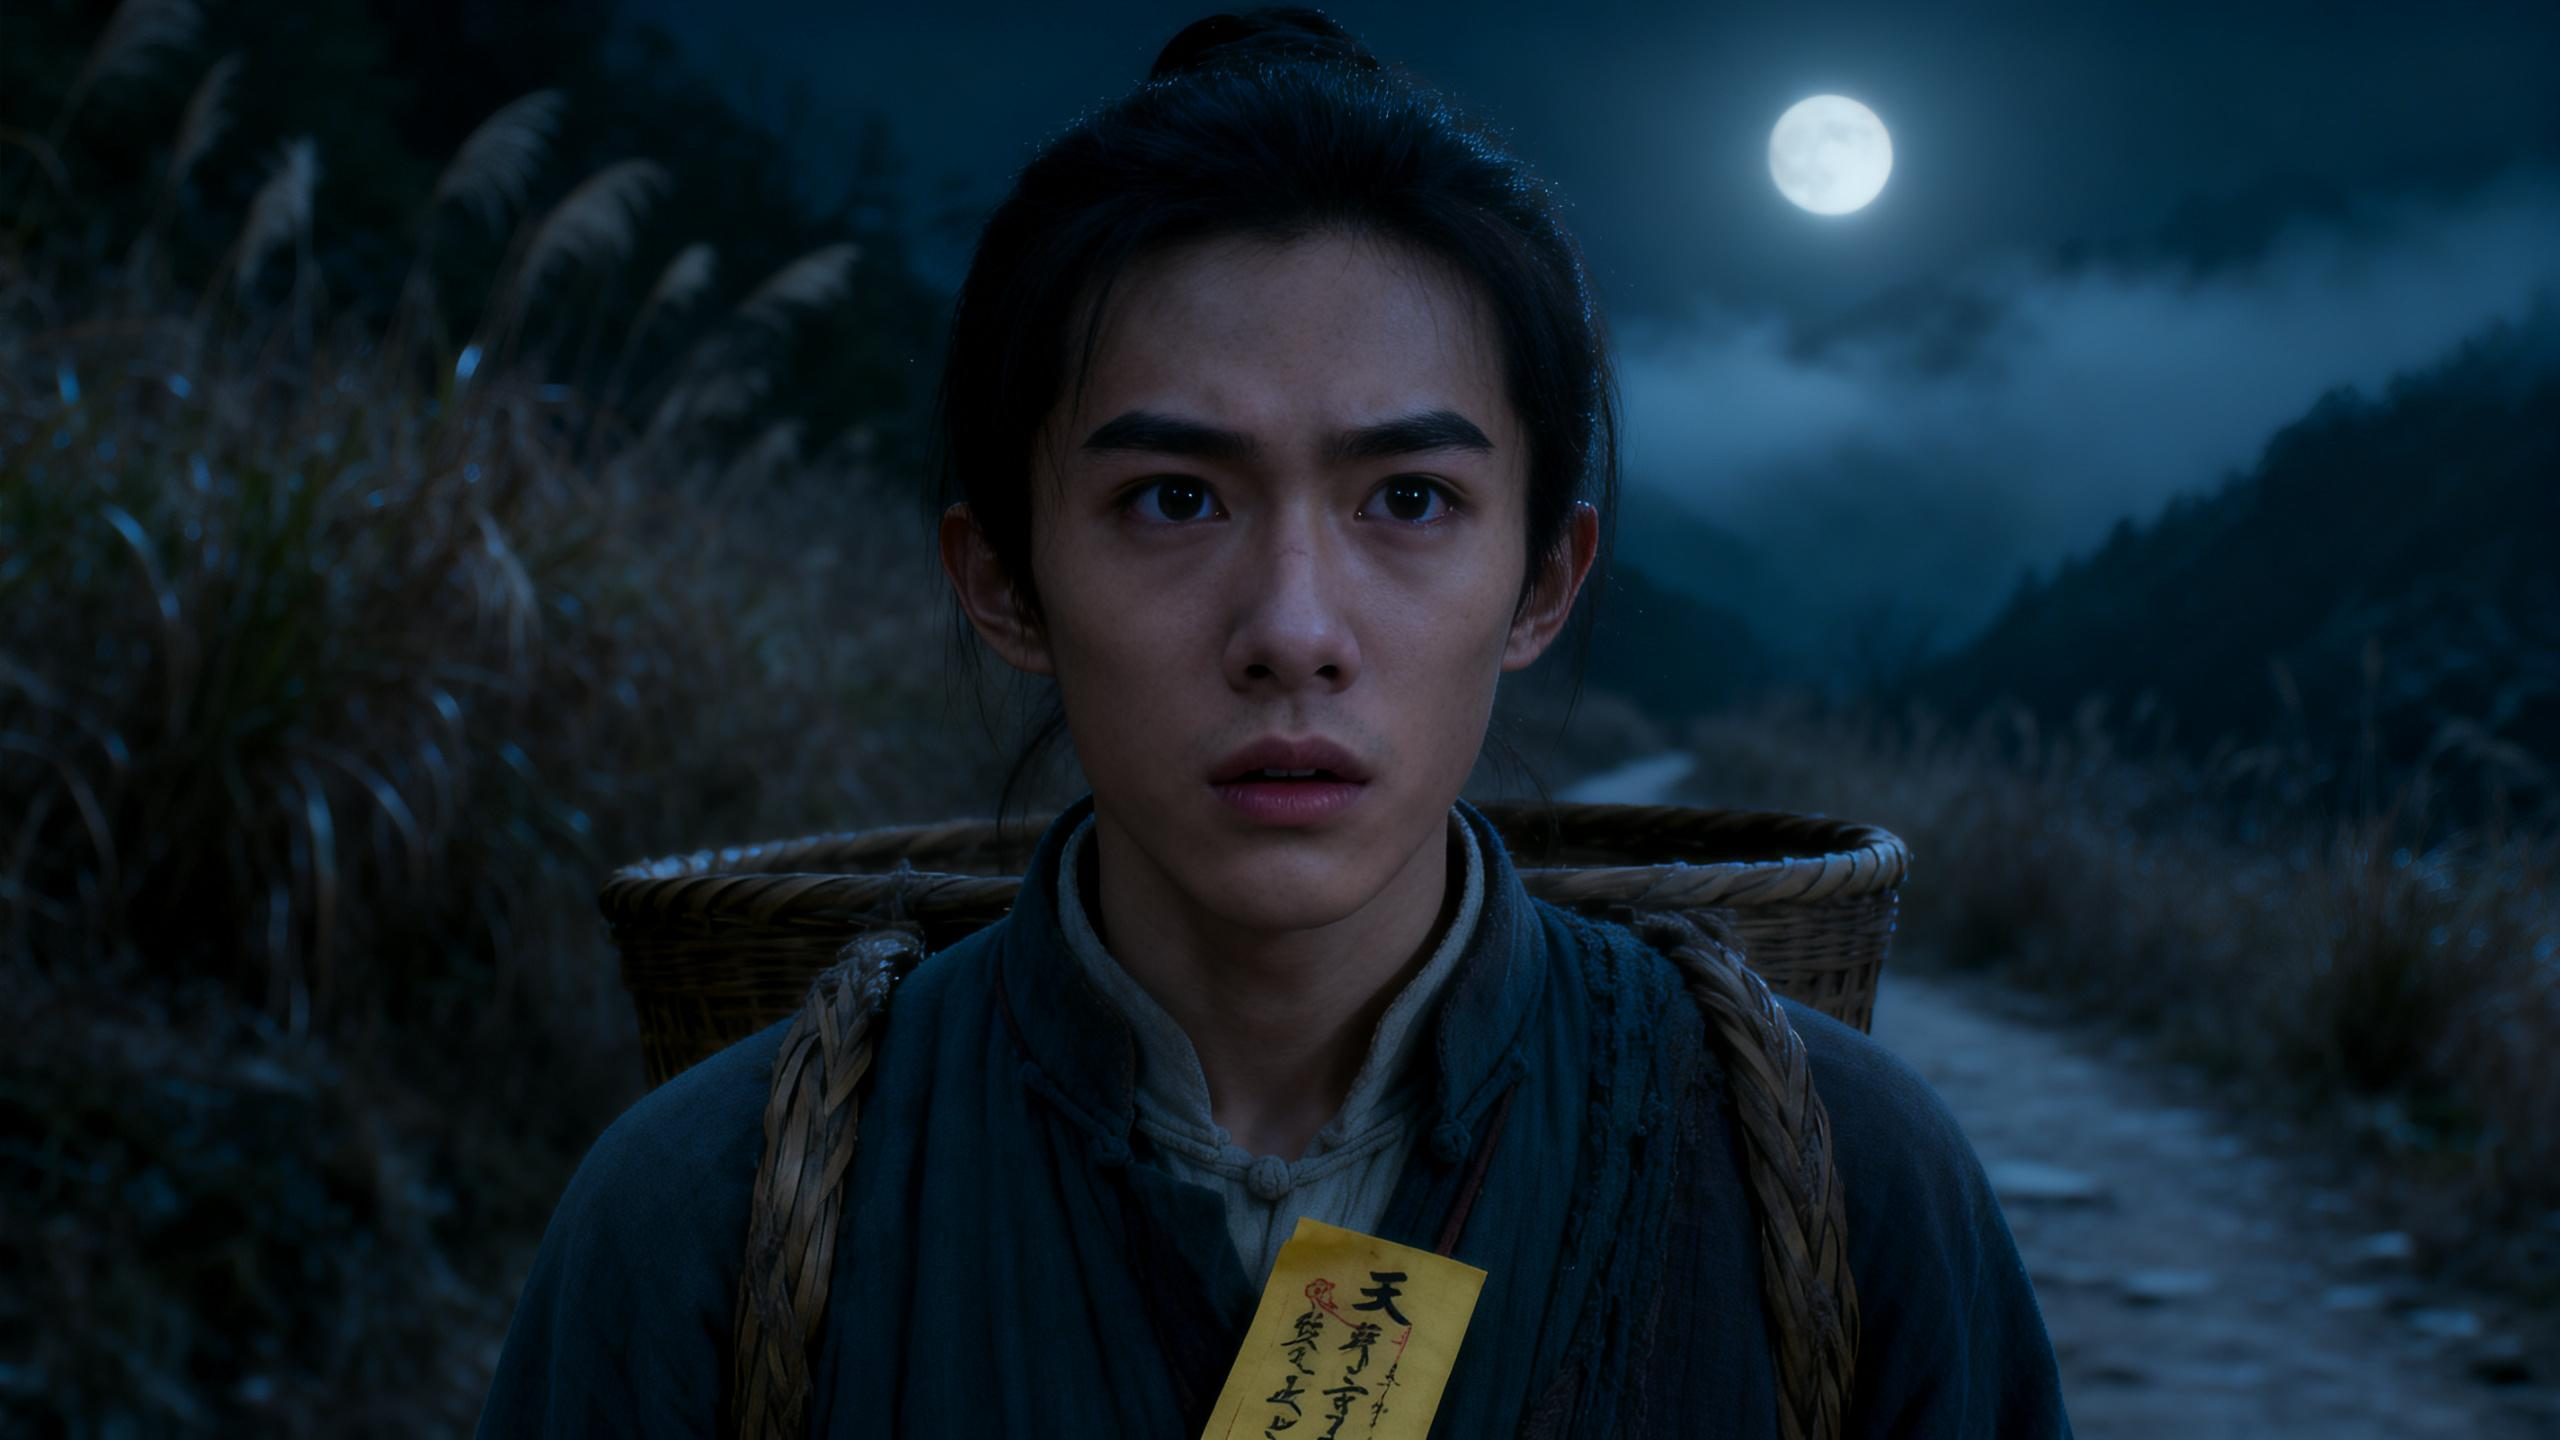
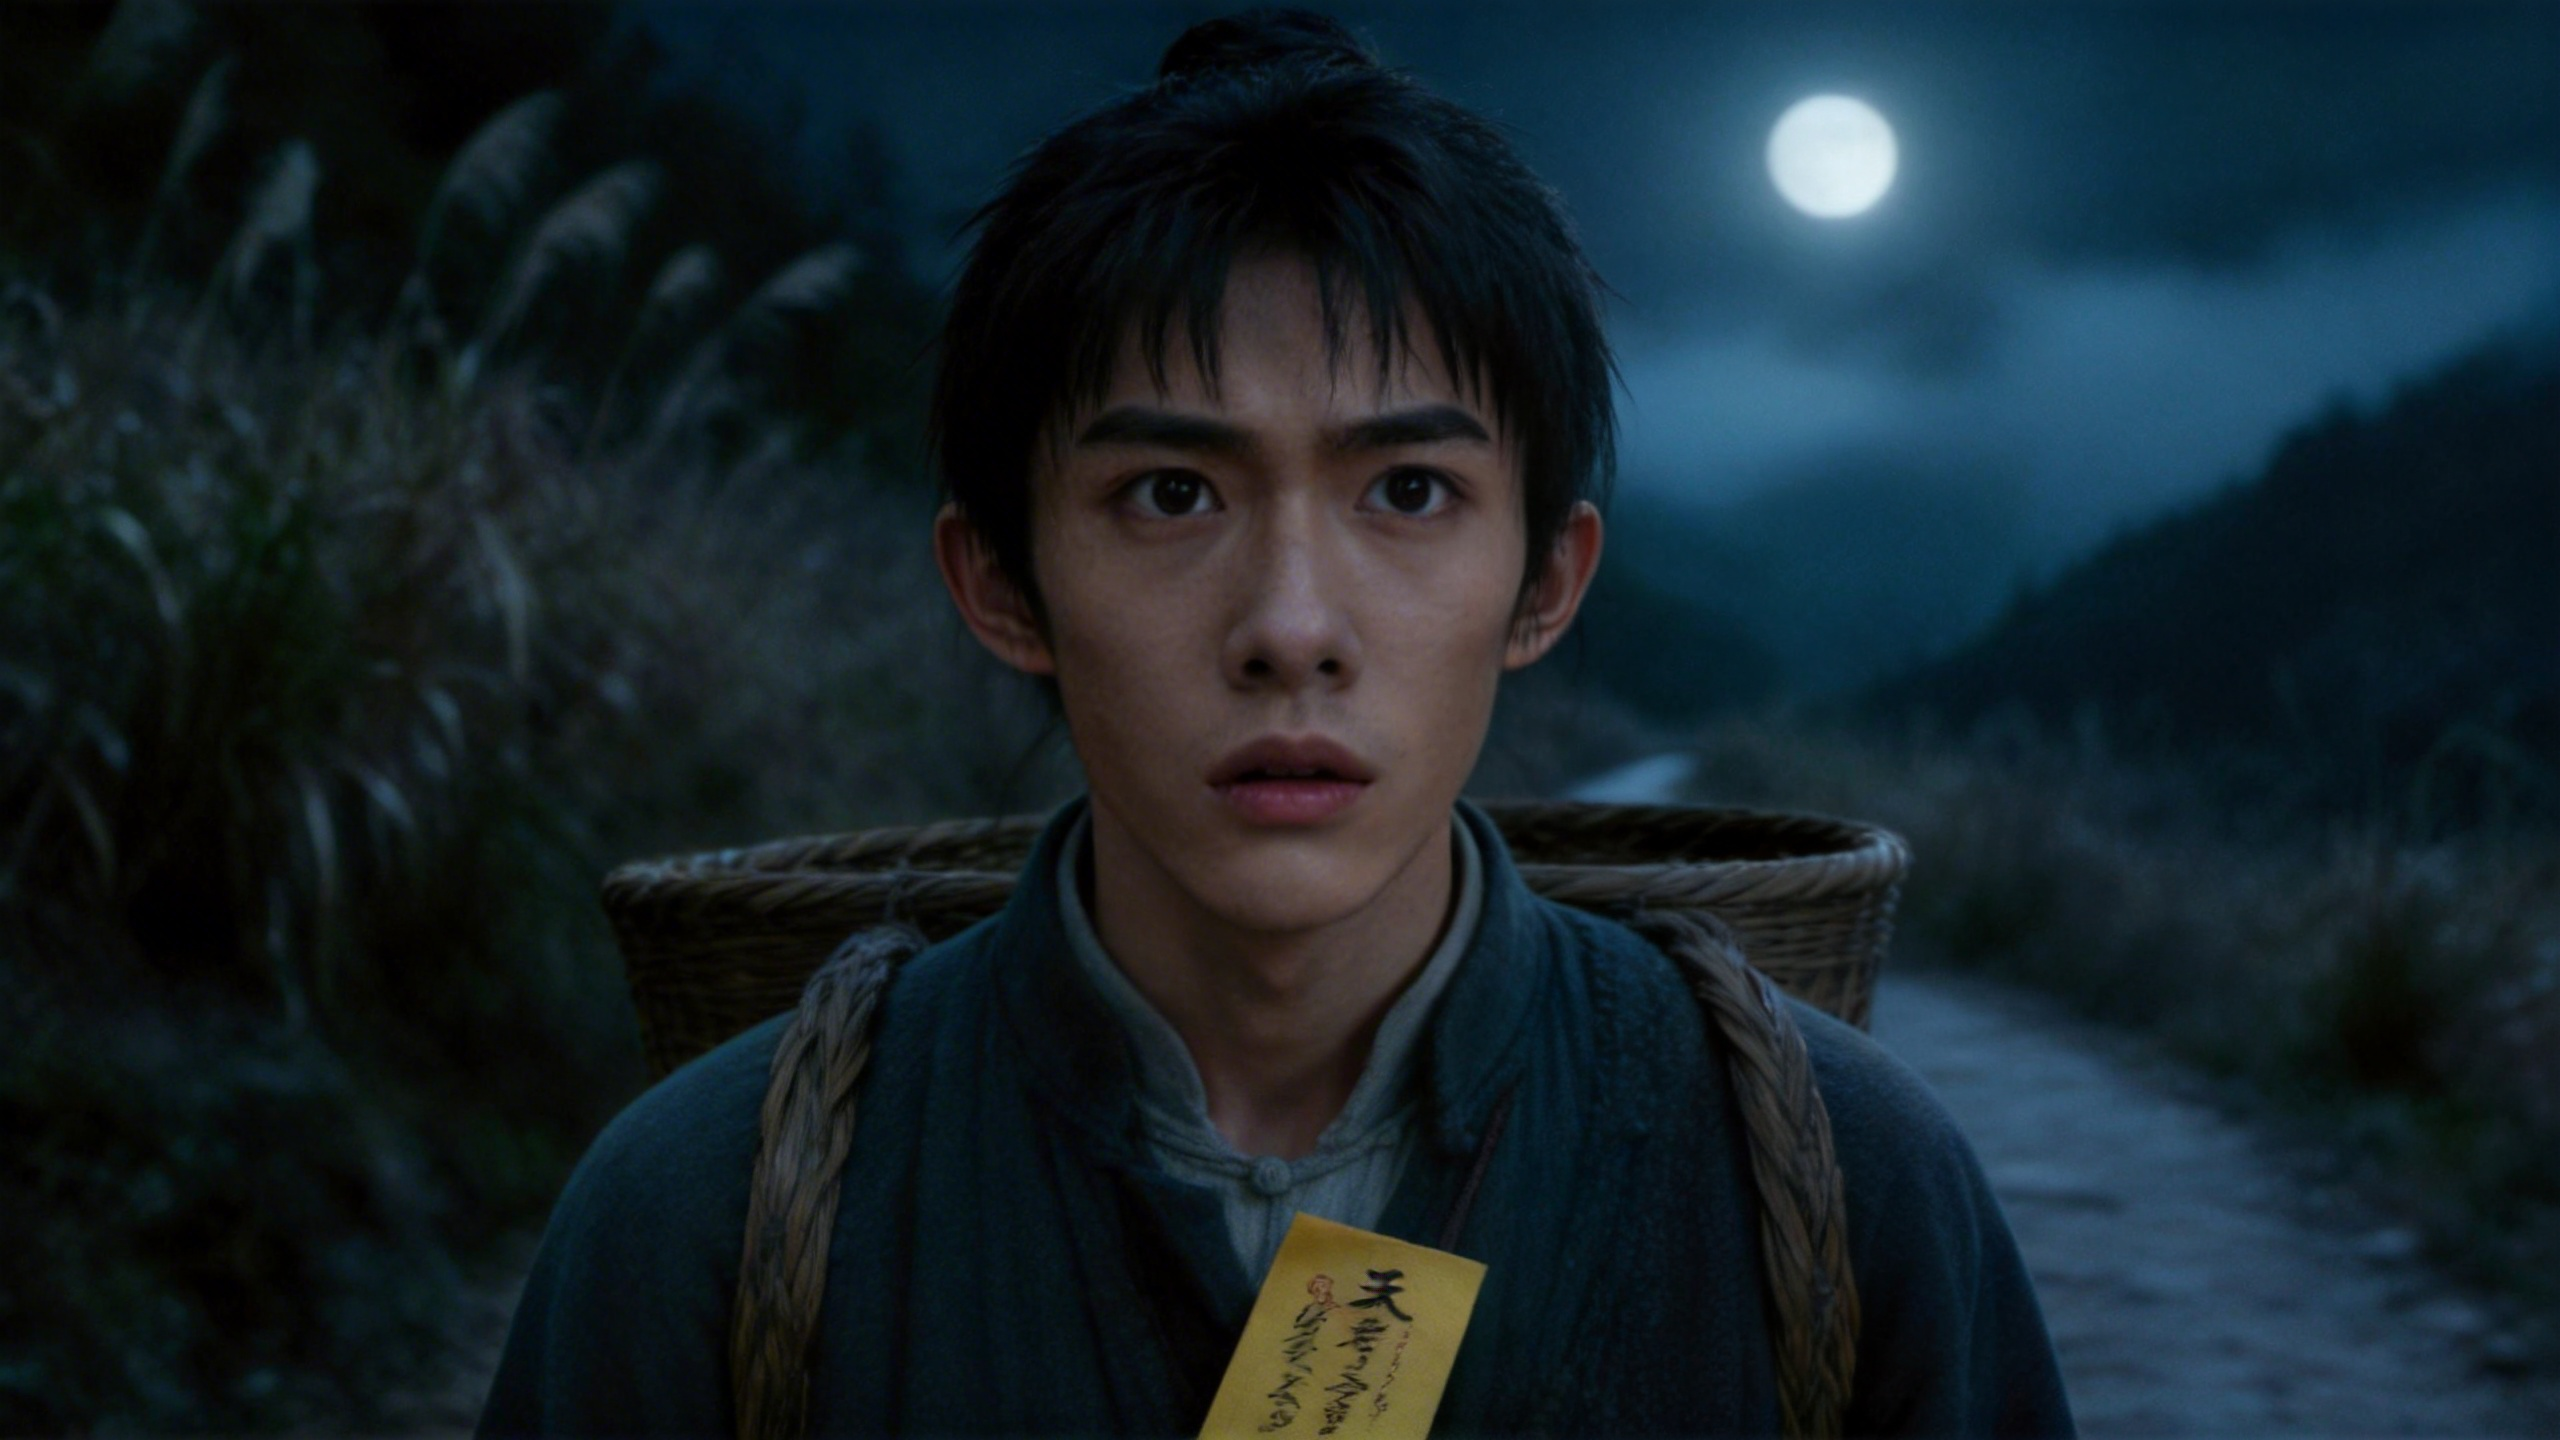
fix: regenerate shot 5 with ahui turnaround lock

diff --git a/index.html b/index.html
@@ -358,16 +358,16 @@
       <article class="shot">
         <div class="marker">01</div>
         <section class="shot-card">
-          <div class="frame"><img src="assets/shot-firepit-story.png" alt="火塘讲古"></div>
+          <div class="frame"><img src="assets/shot-firepit-recorder.svg" alt="年轻采访者第一视角举着录音笔，在火塘前听老傩讲古"></div>
           <div class="shot-body">
             <div>
               <div class="time">00:00 — 00:08</div>
-              <h3>火塘讲古</h3>
-              <p class="desc">黑场先出铃，再给火塘。老傩把“赶尸人，我见过”说出口，整个预告片就站稳了口传民俗的入口，不是特效片开场，而是有人真经历过。</p>
+              <h3>录音笔入画，火塘开口</h3>
+              <p class="desc">黑场先出铃，再切年轻写书人抬起录音笔的第一视角。火塘边只留老傩与一个模糊陪坐者，空间更像真实采访入口：不是一屋子人围坐听传奇，而是有人专门来问，他也终于肯讲。</p>
             </div>
             <div class="shot-side">
-              <div class="shot-meta"><span>镜头功能</span><p>建立叙事口吻、民俗可信度、火塘空间。</p></div>
-              <div class="shot-meta"><span>台词 / 音效</span><p>VO：<strong>“赶尸人，我见过。”</strong><br>FX：木柴爆裂，极远的铜铃，门外风声。</p></div>
+              <div class="shot-meta"><span>镜头功能</span><p>建立采访式叙事入口、录音笔记忆点与火塘口传可信度，避免群像分散注意力。</p></div>
+              <div class="shot-meta"><span>台词 / 音效</span><p>VO：<strong>“赶尸人，我见过。”</strong><br>FX：录音笔轻碰掌心，木柴爆裂，极远的铜铃，门外风声。</p></div>
             </div>
           </div>
         </section>
@@ -435,10 +435,10 @@
             <div>
               <div class="time">00:28 — 00:35</div>
               <h3>阿回夜路特写</h3>
-              <p class="desc">这张脸是后面所有反照的基准脸。阿回得像普通湘西山里少年，怕，但硬撑着走；不是漂亮演员硬演“朴素”。</p>
+              <p class="desc">这张脸是后面所有反照的基准脸。现已按阿回三视图重新锁脸：阿回得像普通湘西山里少年，怕，但硬撑着走；不是漂亮演员硬演“朴素”。</p>
             </div>
             <div class="shot-side">
-              <div class="shot-meta"><span>镜头功能</span><p>锁定阿回脸模，为“同脸”反转提供视觉标准。</p></div>
+              <div class="shot-meta"><span>镜头功能</span><p>用阿回三视图锁定基准脸模，为“同脸”反转提供稳定视觉标准。</p></div>
               <div class="shot-meta"><span>台词 / 音效</span><p>VO：<strong>“阿回那时候，还不知道自己撞上了什么。”</strong><br>FX：呼吸、竹篓轻碰、远处一记铃。</p></div>
             </div>
           </div>
@@ -484,16 +484,16 @@
       <article class="shot">
         <div class="marker">08</div>
         <section class="shot-card">
-          <div class="frame"><img src="assets/shot-procession.png" alt="赶尸队伍显形"></div>
+          <div class="frame"><img src="assets/shot-procession-masked.png" alt="斗笠黑纱遮面的赶尸队伍显形"></div>
           <div class="shot-body">
             <div>
               <div class="time">00:49 — 00:58</div>
               <h3>赶尸队伍显形</h3>
-              <p class="desc">整支预告片第一次完整揭示类型元素。队伍要整齐、沉默、膝盖不弯，像一支穿过夜山的死队，不要妖魔化到失真。</p>
+              <p class="desc">整支预告片第一次完整揭示类型元素。领路的赶尸人必须是斗笠压低、黑纱遮面，像按旧规矩办事的人；队伍整齐、沉默、膝盖不弯，像一支穿过夜山的死队，不要妖魔化到失真。</p>
             </div>
             <div class="shot-side">
-              <div class="shot-meta"><span>镜头功能</span><p>类型片揭示镜头，确认“赶尸”真实存在。</p></div>
-              <div class="shot-meta"><span>台词 / 音效</span><p>VO：<strong>“不是一个，是一队。”</strong><br>FX：铜铃连响，草绳轻撞，山风像忽然让开。</p></div>
+              <div class="shot-meta"><span>镜头功能</span><p>类型片揭示镜头，确认“赶尸”真实存在，也立住“蒙面是规矩”的民俗质感。</p></div>
+              <div class="shot-meta"><span>台词 / 音效</span><p>VO：<strong>“不是一个，是一队。”</strong><br>FX：铜铃连响，草绳轻撞，黑纱擦过衣领，山风像忽然让开。</p></div>
             </div>
           </div>
         </section>
@@ -502,16 +502,16 @@
       <article class="shot">
         <div class="marker">09</div>
         <section class="shot-card">
-          <div class="frame"><img src="assets/shot-say-let.png" alt="赶尸人停铃说让"></div>
+          <div class="frame"><img src="assets/shot-say-let-masked.png" alt="斗笠黑纱遮面的赶尸人停铃说让"></div>
           <div class="shot-body">
             <div>
               <div class="time">00:58 — 01:06</div>
               <h3>赶尸人停铃，说“让”</h3>
-              <p class="desc">这是这一版必须补上的节奏铰链。赶尸人一停，铃声断掉，整个世界像被抽空。只说一个字，比喊叫和怪叫都更瘆人。</p>
+              <p class="desc">这是这一版必须补上的节奏铰链。赶尸人一停，铃声断掉，整个世界像被抽空。镜头里只给到斗笠下的黑纱、轮廓和发白的眼神，不把脸完全露出来；只说一个字，比喊叫和怪叫都更瘆人。</p>
             </div>
             <div class="shot-side">
-              <div class="shot-meta"><span>镜头功能</span><p>制造中段强停顿，把观众和阿回一起钉住。</p></div>
-              <div class="shot-meta"><span>台词 / 音效</span><p>对白：<strong>“让。”</strong><br>FX：铃声戛然而止，空气静到能听见心跳。</p></div>
+              <div class="shot-meta"><span>镜头功能</span><p>制造中段强停顿，把观众和阿回一起钉住，同时保留赶尸人身份信息而不破坏蒙面规矩。</p></div>
+              <div class="shot-meta"><span>台词 / 音效</span><p>对白：<strong>“让。”</strong><br>FX：铃声戛然而止，黑纱轻擦，空气静到能听见心跳。</p></div>
             </div>
           </div>
         </section>
